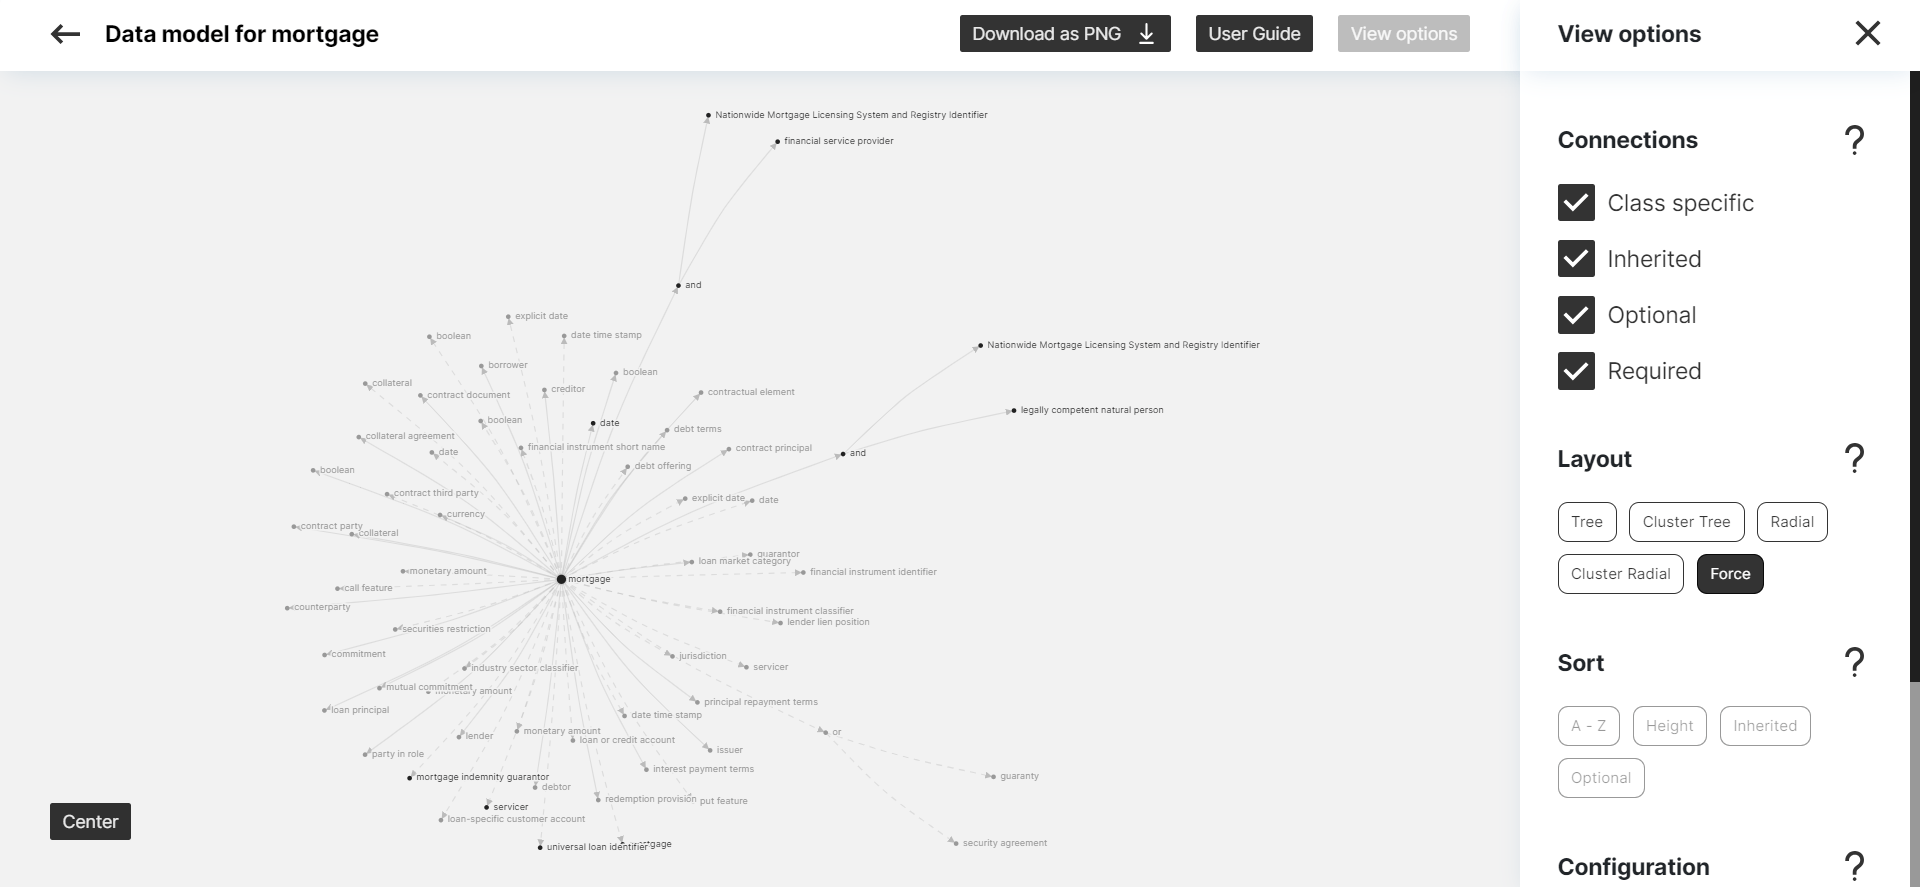
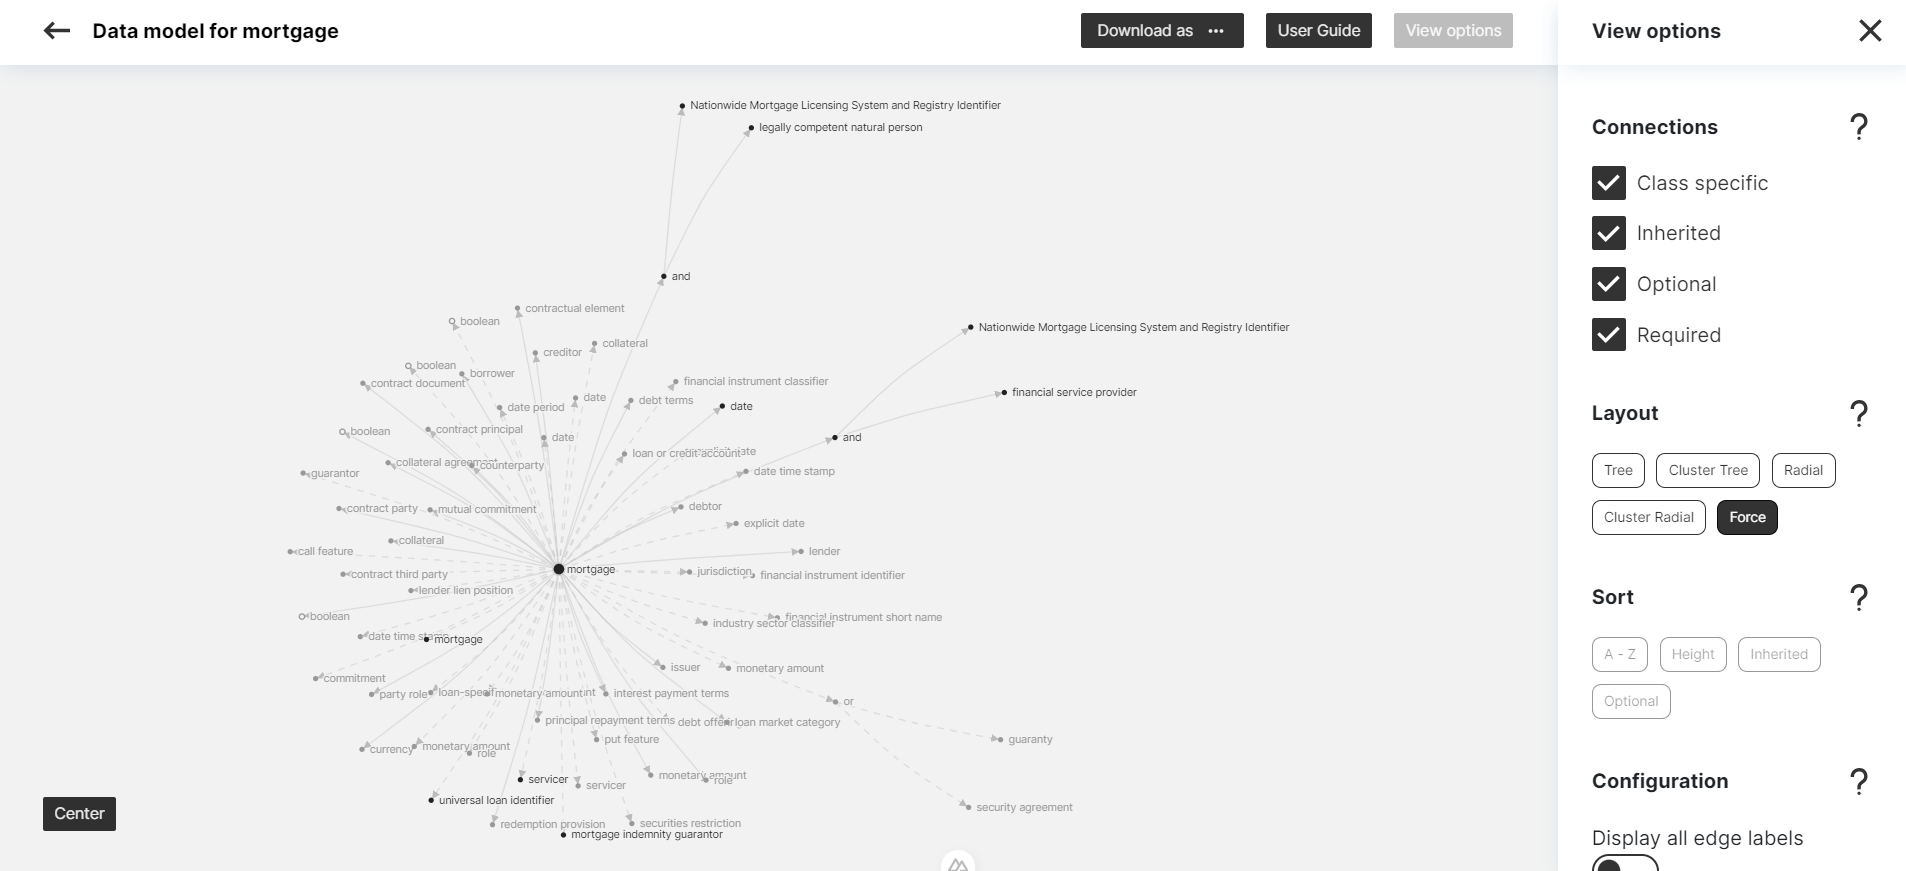
Add gml file download option

diff --git a/general/components/Ontology/GraphVisualization.vue b/general/components/Ontology/GraphVisualization.vue
@@ -1,5 +1,5 @@
 <template>
-  <div class="graph-section">
+  <div class="graph-section" id="graph-section">
     <div class="control-panel control-panel--minimal">
       <div class="connections-and-guide-container">
         <div ref="connectionsTitle" class="collapsible-section collapsed">
@@ -72,14 +72,34 @@
           </div>
         </div>
         <div class="minimal-menu">
-          <button
-            type="button"
-            class="btn normal-button small icon-button download-png-button"
-            @click="downloadAsPng()"
-          >
-            Download as PNG
-            <div class="b-icon download"></div>
-          </button>
+          <div class="dropdown resource-more">
+            <button
+              type="button"
+              class="btn dropdown-toggle"
+              data-bs-toggle="dropdown"
+              aria-haspopup="true"
+              aria-expanded="false"
+            >
+              Download as
+              <div class="icon-show-more-white"></div>
+            </button>
+            <div class="dropdown-menu dropdown-menu-end">
+              <button
+                type="button"
+                class="dropdown-item download-icon"
+                @click="downloadAsGML()"
+              >
+                GML file
+              </button>
+              <button
+                type="button"
+                class="dropdown-item download-icon"
+                @click="downloadAsPng()"
+              >
+                PNG image
+              </button>
+            </div>
+          </div>
           <button
             class="btn normal-button small"
             @click="openGuide('guide-main')"
@@ -136,13 +156,34 @@
           </h3>
         </div>
         <div class="right" :class="{ visible: isControlPanelOpen }">
-          <button
-            class="btn normal-button small icon-button download-png-button"
-            @click="downloadAsPng()"
-          >
-            Download as PNG
-            <div class="b-icon download"></div>
-          </button>
+          <div class="dropdown resource-more">
+            <button
+              type="button"
+              class="btn dropdown-toggle"
+              data-bs-toggle="dropdown"
+              aria-haspopup="true"
+              aria-expanded="false"
+            >
+              Download as
+              <div class="icon-show-more-white"></div>
+            </button>
+            <div class="dropdown-menu dropdown-menu-end">
+              <button
+                type="button"
+                class="dropdown-item download-icon"
+                @click="downloadAsGML()"
+              >
+                GML file
+              </button>
+              <button
+                type="button"
+                class="dropdown-item download-icon"
+                @click="downloadAsPng()"
+              >
+                PNG image
+              </button>
+            </div>
+          </div>
           <button
             class="btn normal-button small"
             @click="openGuide('guide-main')"
@@ -571,7 +612,7 @@ export default {
       this.ontograph.sort(type);
     },
     downloadAsPng() {
-      d3ToPng('svg', `${this.data.label}`, {
+      d3ToPng('#visualization-svg', `${this.data.label}`, {
         scale: 1,
         format: 'png',
         quality: 1,
@@ -583,6 +624,29 @@ export default {
         download.download = `${this.data.label}.png`;
         download.click();
       });
+    },
+    downloadFile(fileContent, fileName, fileType) {
+      const blob = new Blob([fileContent], { type: fileType });
+
+      const downloadLink = document.createElement('a');
+      downloadLink.download = fileName;
+      downloadLink.href = URL.createObjectURL(blob);
+      downloadLink.dataset.downloadurl = `${fileType}:${downloadLink.download}:${downloadLink.href}`;
+      downloadLink.style.display = 'none';
+
+      document.body.appendChild(downloadLink);
+
+      downloadLink.click();
+      URL.revokeObjectURL(downloadLink.href);
+
+      document.body.removeChild(downloadLink);
+    },
+    downloadAsGML() {
+      const fileContent = this.ontograph.downloadAsFile('gml');
+      const fileName = `${this.data.label.replaceAll(' ', '-')}-export.gml`;
+      const fileType = 'text/gml';
+
+      this.downloadFile(fileContent, fileName, fileType);
     },
     showModal() {
       this.fullscreen = true;
@@ -723,6 +787,127 @@ export default {
     &.disabled {
       background-color: white;
       cursor: default;
+    }
+  }
+}
+
+.resource-more {
+  border-radius: 2px;
+  padding: 0;
+  border: none;
+  text-decoration: none;
+  font-size: 14px;
+  line-height: 20px;
+  letter-spacing: 0.01em;
+  display: flex;
+  align-items: center;
+
+  .btn.dropdown-toggle {
+    border: none;
+    outline: none;
+    box-shadow: none;
+    padding: 5px 15px 5px 15px;
+    font-size: 14px;
+    background: rgba(0, 0, 0, 0.8);
+    border-radius: 2px;
+    color: rgba(255, 255, 255, 0.9);
+    display: flex;
+    align-items: center;
+    gap: 10px;
+    transition: opacity 0.3s;
+
+    &::after {
+      display: none;
+    }
+
+    .icon-show-more-white {
+      background-image: url('../../assets/icons/show-more-white.svg');
+      background-size: 100%;
+      width: 20px;
+      height: 20px;
+    }
+
+    &.show {
+      opacity: 0.8;
+    }
+  }
+
+  .dropdown-menu {
+    user-select: none;
+    pointer-events: none;
+
+    display: block;
+    padding: 0;
+    width: 240px;
+    max-width: calc(100vw - 75px);
+    border: none;
+    background-color: map-get($colors-map, 'white');
+    box-shadow: 0px 5px 20px -5px rgba(8, 84, 150, 0.15);
+    border-radius: 0;
+    position: absolute;
+    right: 0;
+    bottom: 0;
+    inset: 0px 0px auto auto;
+    opacity: 0;
+    transform: translate3d(0px, 30px, 0px);
+
+    transition:
+      opacity 0.35s ease,
+      margin-top 0.35s ease,
+      transform 0.35s;
+
+    &.show {
+      user-select: unset;
+      pointer-events: unset;
+
+      opacity: 1;
+      transform: translate3d(0px, 40px, 0px) !important;
+    }
+
+    .dropdown-item {
+      font-family: 'Inter';
+      font-style: normal;
+      font-weight: normal;
+      font-size: 18px;
+      line-height: 30px;
+      cursor: pointer;
+
+      color: map-get($colors-map, 'black-80');
+
+      margin: 0;
+      padding: 15px 30px;
+
+      &:hover {
+        color: map-get($colors-map, 'black-80');
+        background-color: map-get($colors-map, 'black-5');
+      }
+
+      &:focus {
+        color: map-get($colors-map, 'black-80');
+        background-color: unset;
+      }
+
+      &:active {
+        color: map-get($colors-map, 'black-80');
+        background-color: map-get($colors-map, 'black-20');
+      }
+    }
+
+    .download-icon {
+      &::before {
+        content: '';
+        background-image: url('@/assets/icons/download-dark.svg');
+        opacity: 0.8;
+        background-repeat: no-repeat;
+        background-size: 20px;
+        background-position: center;
+
+        display: block;
+        width: 24px;
+        height: 30px;
+        float: left;
+        margin: 0 10px 0 0;
+      }
     }
   }
 }
@@ -962,14 +1147,6 @@ export default {
   }
 }
 
-.download-png-button {
-  .b-icon.download {
-    background-image: url('../../assets/icons/download.svg');
-    width: 20px;
-    height: 20px;
-  }
-}
-
 .collapsible-section {
   h6 {
     padding: 0;
@@ -1128,6 +1305,12 @@ export default {
 
 //mobile
 @media (max-width: 768px) {
+  .resource-more {
+    .dropdown-menu {
+      left: 0;
+    }
+  }
+
   .modal.fullscreen .modal-header {
     padding: 15px 40px 20px 40px;
     .left {
@@ -1237,8 +1420,8 @@ export default {
       flex-direction: column-reverse;
       align-items: stretch;
 
-      button {
-        margin: 0 10px 20px 0 !important;
+      button:not(.dropdown-item) {
+        margin: 0 0 20px 0 !important;
       }
     }
   }

diff --git a/general/helpers/ontograph.js b/general/helpers/ontograph.js
@@ -532,6 +532,7 @@ export default class Ontograph {
   getSvg() {
     return d3
       .create('svg')
+      .attr('id', 'visualization-svg')
       .attr('viewBox', [
         -this.width / 2,
         -this.height / 2,
@@ -1297,5 +1298,35 @@ export default class Ontograph {
   pushAlert(type, source) {
     this.alertId += 1;
     this.alertHandler(type, this.alertId, source);
+  }
+
+  convertToGML() {
+    let output = 'graph [\n\tdirected 1\n';
+
+    for (let node of this.nodes) {
+      output += `\tnode [\n`;
+      output += `\t\tid ${node.index}\n`;
+      output += `\t\tlabel "${node.data.nodeLabel}"\n`;
+      output += `\t]\n`;
+    }
+
+    for (let edge of this.links) {
+      output += `\tedge [\n`;
+      output += `\t\tsource ${edge.source.index}\n`;
+      output += `\t\ttarget ${edge.target.index}\n`;
+      output += `\t\tlabel "${edge.target.data.pathLabel}"\n`;
+      output += `\t]\n`;
+    }
+
+    output += ']';
+
+    return output;
+  }
+
+  downloadAsFile(format) {
+    switch (format) {
+      case 'gml':
+        return this.convertToGML();
+    }
   }
 }
